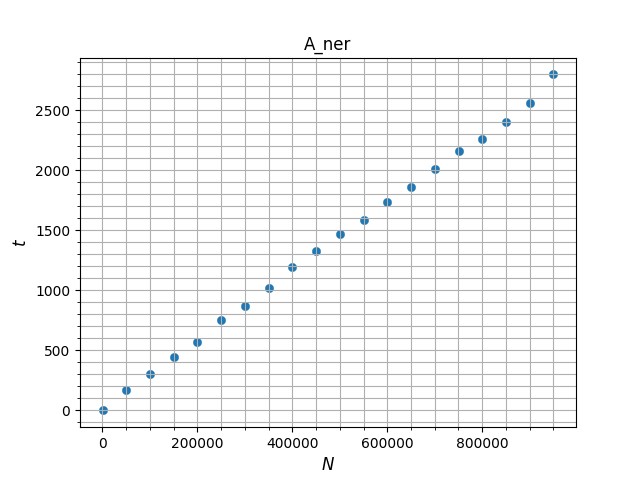
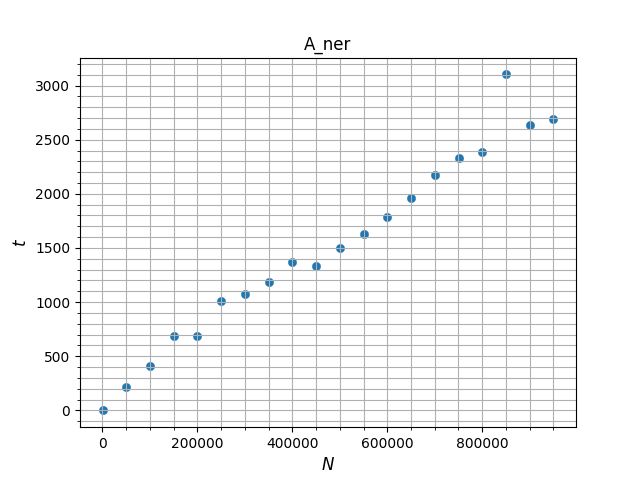
commit 5

Changed region(s): [[0.0625, 0.125, 0.9062, 0.8438], [0.125, 0.875, 0.9062, 0.9062], [0.0625, 0.1562, 0.125, 0.1875]]

diff --git a/lab_1/laba_1.cpp b/lab_1/laba_1.cpp
@@ -38,9 +38,9 @@ void worst_C();
 
 int main() {
     //worst_linear();
-    //worst_binary();
+    worst_binary();
     //average_linear();
-    average_binary();
+    //average_binary();
     //worst_vtupuyu();
     //worst_poumnomu();
     //worst_A();
@@ -376,28 +376,28 @@ unsigned time_C(int *arr, int N, int key, int *arr_0)
 
 void worst_A()
 {
-    std::ofstream outFile("lab_1/A.txt");
+    std::ofstream outFile("lab_1/A_ner.txt");
     for(int N = 100; N <= 1000000; N += 50000)
     {
         int arr[N];
         for (int i = 0; i < N; i++)
             arr[i] = random_key_index(N);
         int key = random_key(N);
-        //if (key > N*0.3 && key < N*0.7) key = N/2;
+        if (key > N*0.01 && key < N*0.99) key = N/2;
         outFile << time_A(arr, N, key) << std::endl;
     }
     outFile.close();
 }
 void worst_B()
 {
-    std::ofstream outFile("lab_1/B.txt");
+    std::ofstream outFile("lab_1/B_ner.txt");
     for(int N = 100; N <= 1000000; N += 50000)
     {
         int arr[N];
         for (int i = 0; i < N; i++)
             arr[i] = random_key_index(N);
         int key = random_key(N);
-        //if (key > N*0.3 && key < N*0.7) key = N/2;
+        if (key > N*0.01 && key < N*0.99) key = N/2;
         outFile << time_B(arr, N, key) << std::endl;
     }
     outFile.close();
@@ -412,7 +412,7 @@ void worst_C()
         for (int i = 0; i < N; i++)
             arr[i] = random_key_index(N);
         int key = random_key(N);
-        if (key > N*0.3 && key < N*0.7) key = N/2;
+        if (key > N*0.01 && key < N*0.99) key = N/2;
         outFile << time_C(arr, N, key, arr_0) << std::endl;
     }
     outFile.close();
